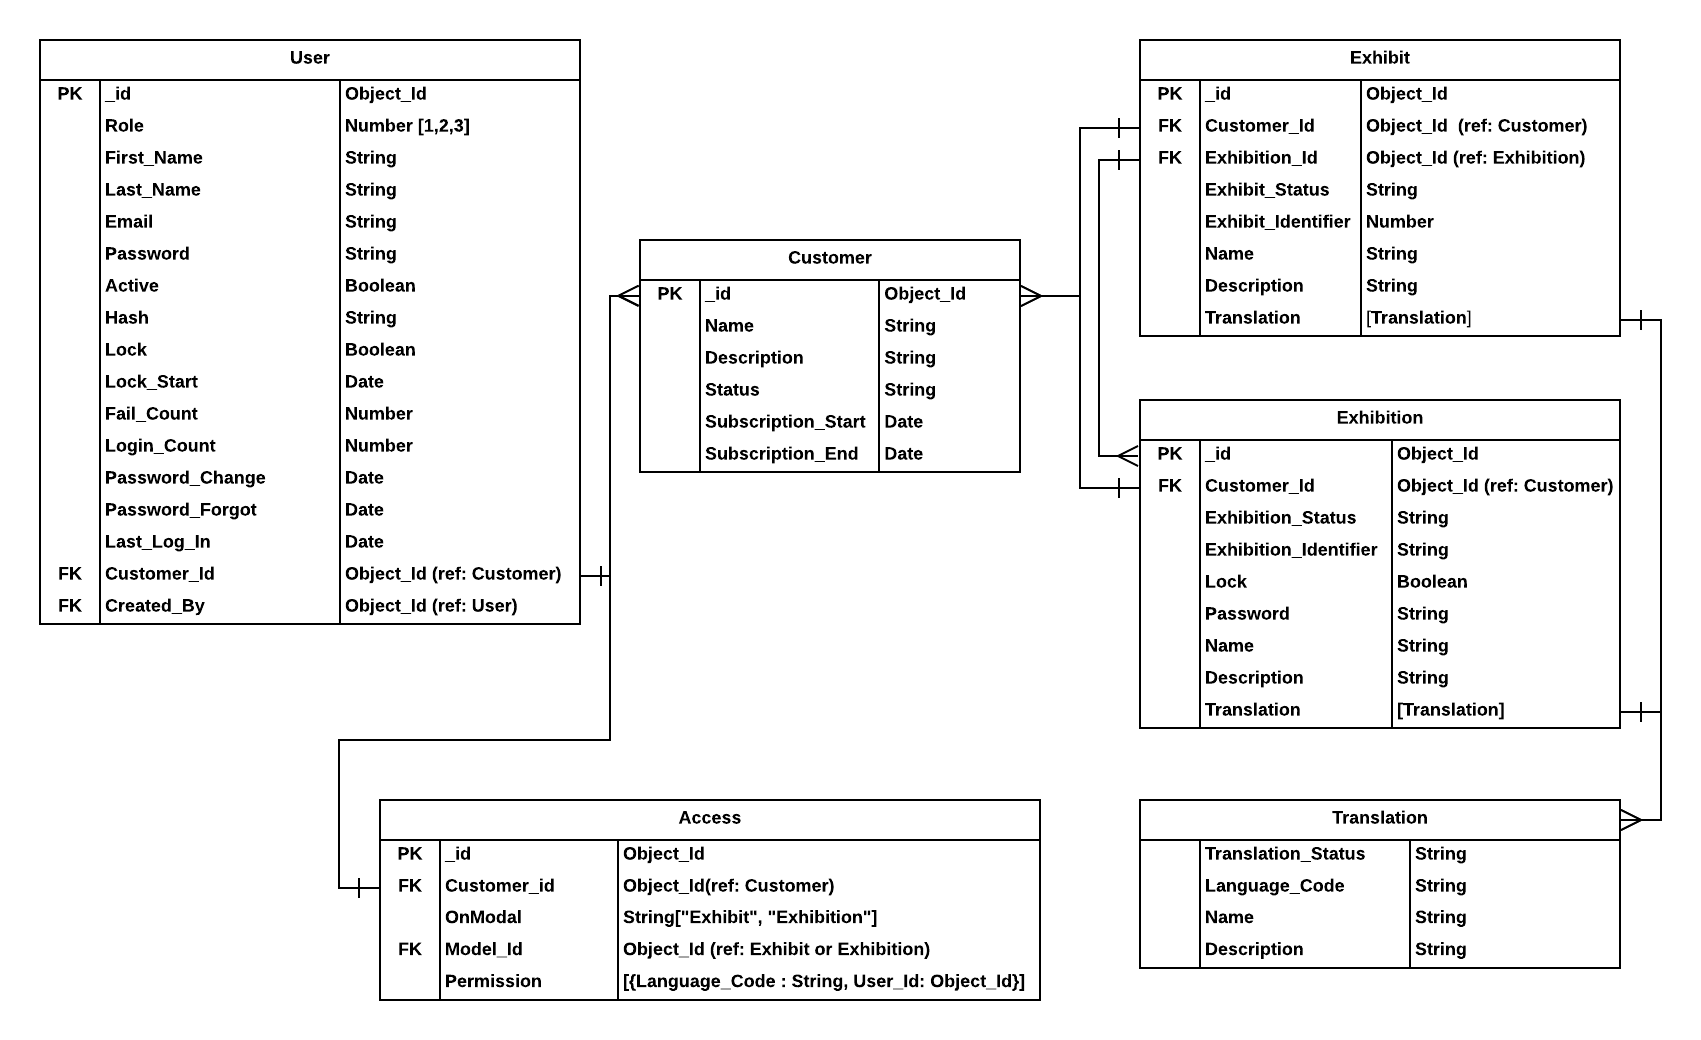
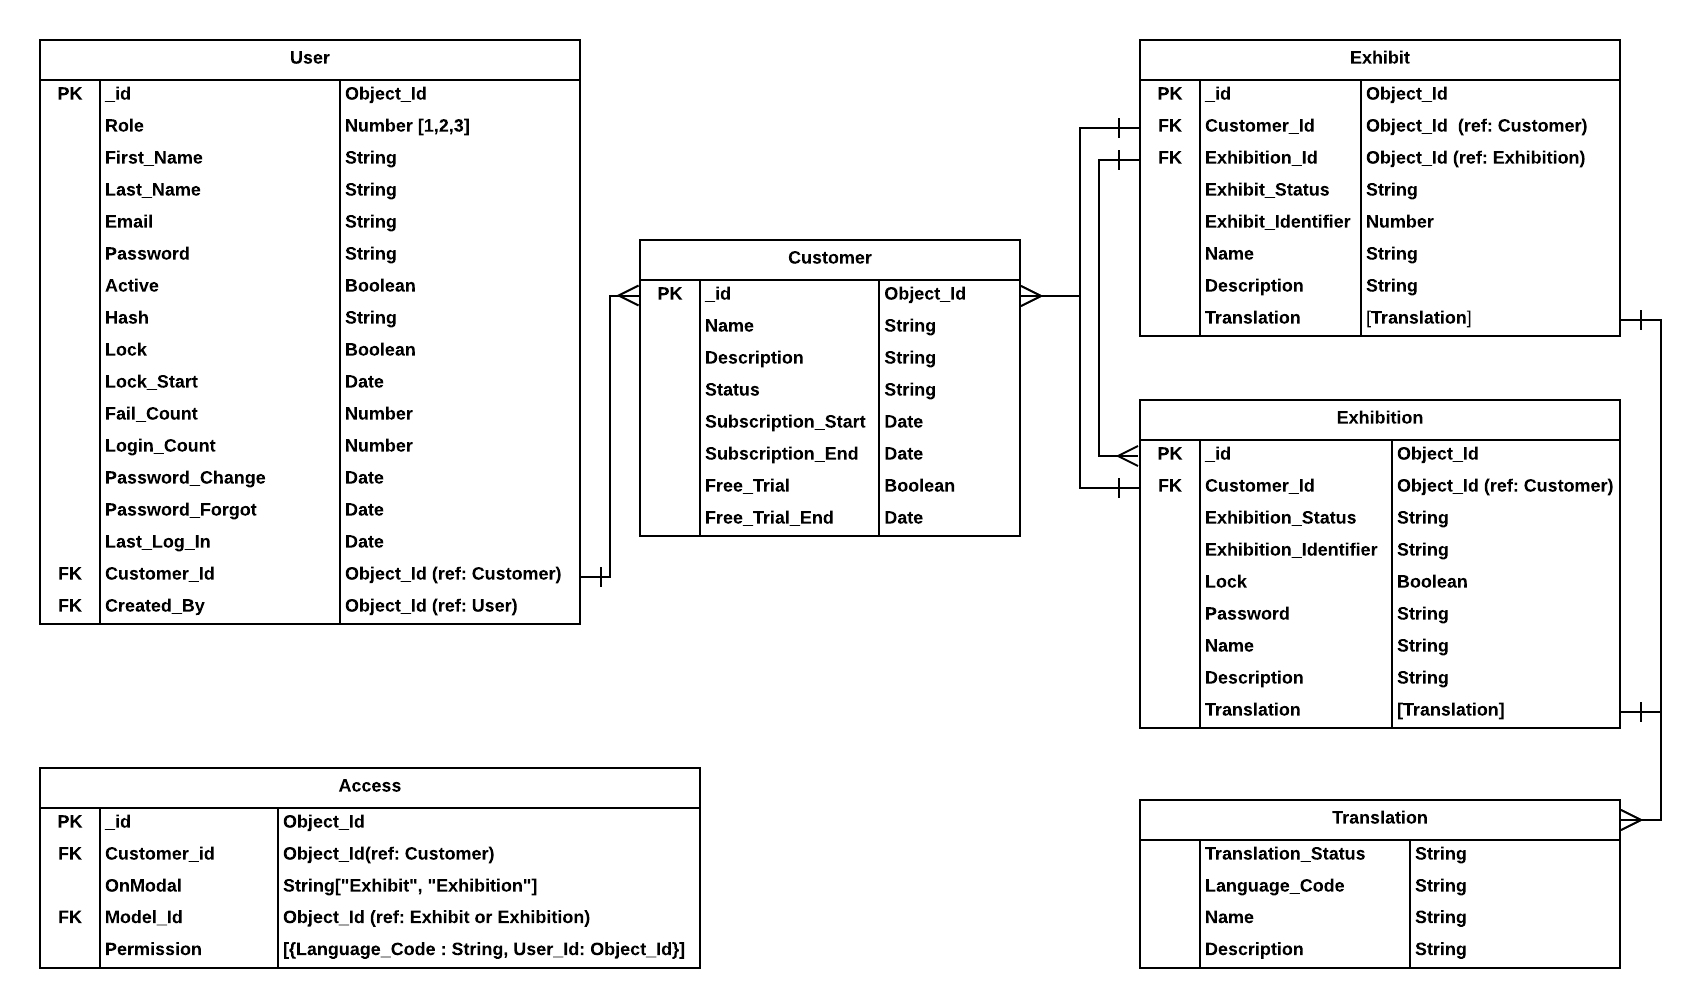
Updated database model.
Added free trial, a boolean value, and free trial end, a date value to Customer table

diff --git a/src/controllers/userController.js b/src/controllers/userController.js
@@ -2,7 +2,7 @@ const ROLE = require("../helper/roleHelper");
 const RegisterUserHelper = require("../helper/registerHelper");
 const httpHelper = require("../helper/httpHelper");
 
-function UserController(mongoose, User, Customer, Exhibit, Exhibition) {
+function UserController(mongoose, User, Customer, Exhibit, Exhibition, Access) {
   /**
    * User: GUIDEXP
    * - Get all Customers
@@ -220,15 +220,22 @@ function UserController(mongoose, User, Customer, Exhibit, Exhibition) {
   async function getSingleStaff(req, res) {
     const user_id = req.params.userId;
     const customer_id = req.params.customerId;
-    if (req.user.Role === ROLE.GUIDEXP) {
-      //GUIDEXP making this request
-      const p1 = User.findOne({
-        Customer_Id: customer_id,
-        _id: user_id,
-      });
-    } else {
-      //MANAGER making this request
-    }
+
+    //MANAGER make a request
+    if (req.user.Role === ROLE.MANAGER && customer_id !== req.user.Customer_Id)
+      return res.status(httpHelper.FORBIDDEN).send();
+
+    const p1 = User.findOne({
+      Customer_Id: customer_id,
+      _id: user_id,
+    });
+    const p2 = Access.find({
+      Customer_Id: customer_id,
+    }).populate({ path: "Permission", match: { User_Id: user_id } });
+
+    Promise.all(p1, p2).then((values) => {
+      return res.status(httpHelper.OK).send(values);
+    });
   }
 
   /**

diff --git a/src/db/schemas/Customer.js b/src/db/schemas/Customer.js
@@ -10,12 +10,18 @@ module.exports = function (mongoose) {
     },
     Status: {
       type: String,
-      enum: ["Active", "Not Active"],
+      enum: ["Active", "Not Active", "Member", "Expire"],
       require: true,
       default: "Not Active",
     },
     Subscription_Start: Date,
     Subscription_End: Date,
+    Free_Trial: {
+      type: Boolean,
+      require: true,
+      default: false,
+    },
+    Free_Trial_End: Date,
   });
   return Customer;
 };
